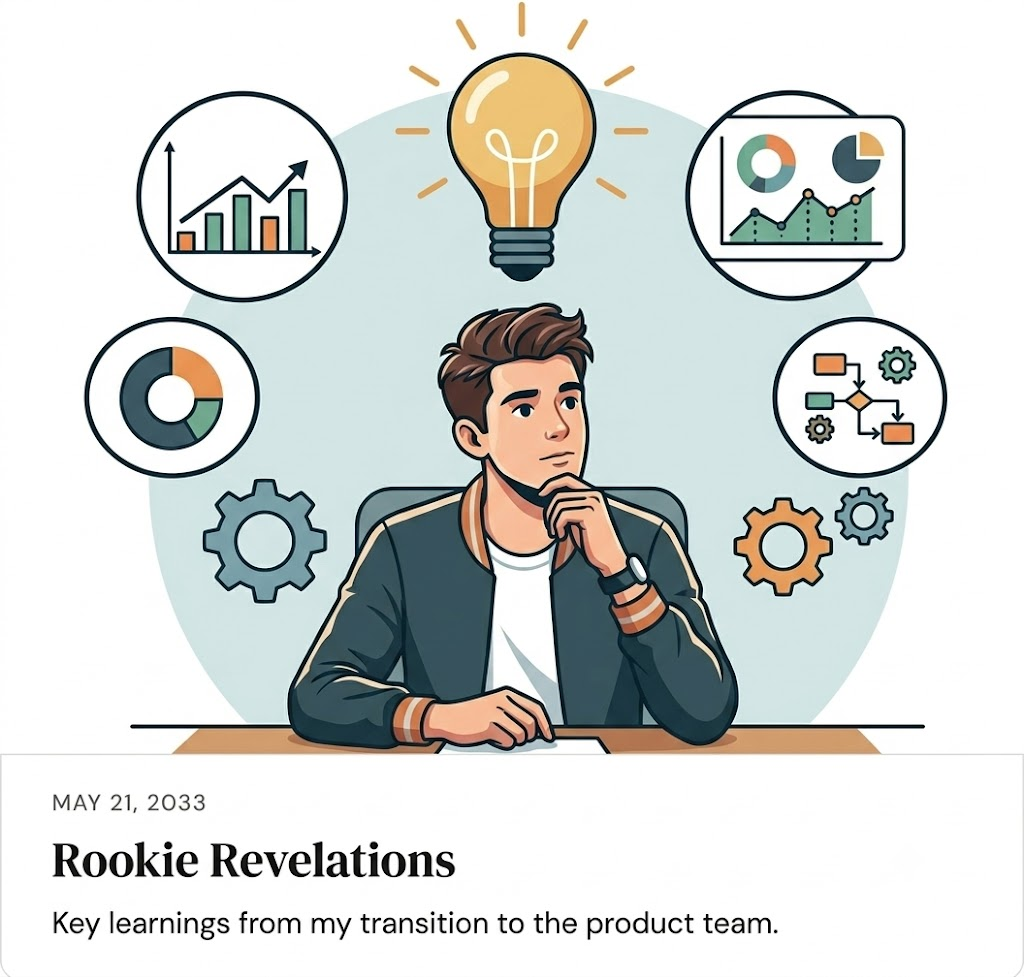
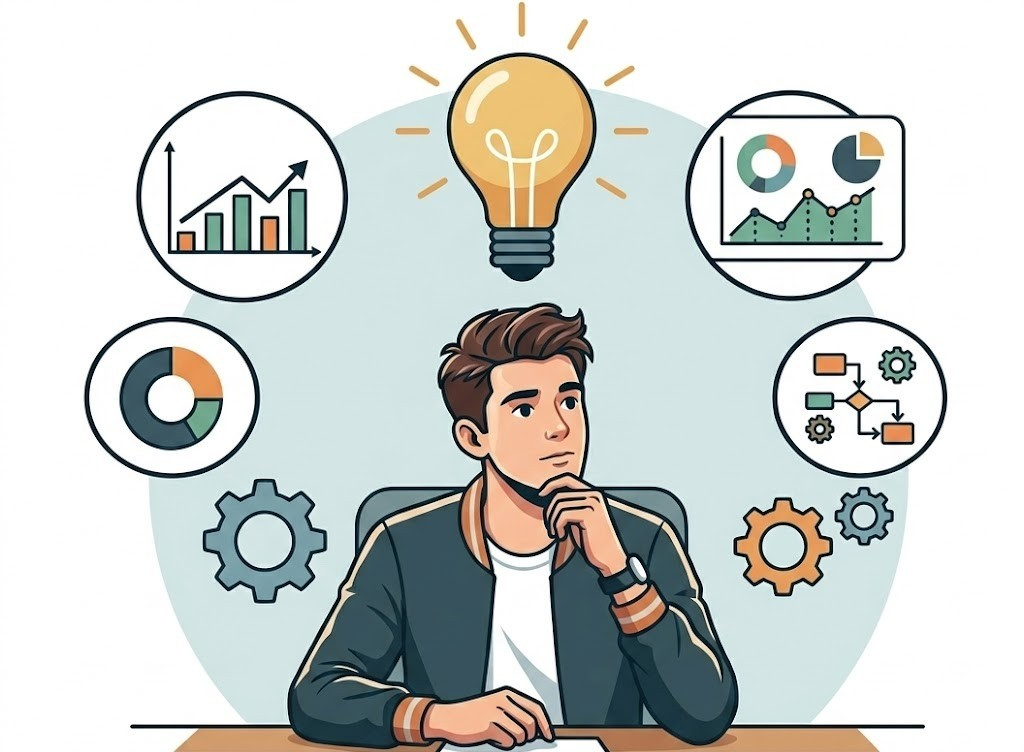
Remove article category labels; show full illustrated previews; crop baked-in text from Rookie image

diff --git a/styles.css b/styles.css
@@ -205,6 +205,8 @@ img { max-width: 100%; height: auto; display: block; }
 }
 .post-card:hover { transform: translateY(-4px); box-shadow: 0 18px 48px rgba(40,40,60,.12); }
 .post-card .thumb, .post-card img.thumb { width: 100%; aspect-ratio: 16 / 10; object-fit: cover; }
+/* Illustrated covers: show the whole image (no cropping) on a clean background */
+.post-card .thumb.contain { object-fit: contain; background: #ffffff; }
 .post-card .body { padding: 26px 28px 30px; }
 .post-card .date { font-size: 12.5px; color: var(--muted); text-transform: uppercase; letter-spacing: .08em; font-weight: 500; }
 .post-card h3 { font-size: 23px; font-weight: 600; margin: 10px 0 10px; letter-spacing: -.01em; }
@@ -244,4 +246,30 @@ img { max-width: 100%; height: auto; display: block; }
 }
 .article figure { margin: 32px 0; }
 .article figcaption { font-size: 14px; color: var(--muted); text-align: center; margin-top: 10px; }
-.article h3 { font-size: 22px; font-weight: 600; letter-spacing: -.01em; margin: 34px 0 12px; fon
+.article h3 { font-size: 22px; font-weight: 600; letter-spacing: -.01em; margin: 34px 0 12px; font-family: var(--serif); }
+.article ul, .article ol { font-size: 18px; line-height: 1.8; color: #3a3f4a; margin: 0 0 24px; padding-left: 26px; }
+.article li { margin: 0 0 10px; }
+.article ul ul { margin: 10px 0 0; }
+.article p a, .article li a { color: var(--accent); text-decoration: underline; text-underline-offset: 2px; }
+.article .btn { margin: 8px 0 14px; }
+.article .btn:hover { text-decoration: none; }
+.article em { color: inherit; }
+
+/* ---------- Image placeholders (replace with <img>) ---------- */
+.ph {
+  background: repeating-linear-gradient(135deg, #f2f3f7, #f2f3f7 10px, #eceef4 10px, #eceef4 20px);
+  display: flex; align-items: center; justify-content: center;
+  color: #9aa0b0; font-family: ui-monospace, "SFMono-Regular", Menlo, monospace;
+  font-size: 12px; letter-spacing: .04em;
+}
+
+/* ---------- Responsive ---------- */
+@media (max-width: 760px) {
+  .cards, .post-grid { grid-template-columns: 1fr; }
+  .about { grid-template-columns: 1fr; }
+  .about img { max-width: 280px; }
+  .nav-links { gap: 16px; }
+  .nav-links a:not(.pill) { display: none; }   /* keep header tidy on mobile */
+  .section { padding: 64px 0; }
+  .hero { min-height: 560px; }
+}

diff --git a/blogs/index.html b/blogs/index.html
@@ -53,7 +53,7 @@
     <div class="container post-grid">
 
       <a class="post-card" href="the-future-of-web3-wallets.html">
-        <img class="thumb" src="../images/future_of_web_3_image.jpg" alt="A futuristic digital wallet on an iPhone" />
+        <img class="thumb contain" src="../images/future_of_web_3_image.jpg" alt="A futuristic digital wallet on an iPhone" />
         <div class="body">
           <span class="date">November 14, 2024</span>
           <h3>The Future of Web3 Wallets</h3>
@@ -62,7 +62,7 @@
       </a>
 
       <a class="post-card" href="rookie-revelations.html">
-        <img class="thumb" src="../images/rookie_revelations.jpg" alt="Product owner vs. product manager" />
+        <img class="thumb contain" src="../images/rookie_revelations.jpg" alt="Person reflecting on product work" />
         <div class="body">
           <span class="date">May 21, 2023</span>
           <h3>Rookie Revelations</h3>
@@ -103,5 +103,3 @@
   </footer>
 
   <script>document.getElementById("year").textContent = new Date().getFullYear();</script>
-</body>
-</html>

diff --git a/blogs/door-dash-for-more-cash.html b/blogs/door-dash-for-more-cash.html
@@ -44,7 +44,6 @@
   <article class="article">
     <a class="back-link" href="index.html">← All posts</a>
 
-    <span class="kicker">Data &amp; Side Hustles</span>
     <h1>Door Dash for More Cash</h1>
     <div class="meta">
       <span>February 11, 2023</span>
@@ -107,3 +106,4 @@
   <script>document.getElementById("year").textContent = new Date().getFullYear();</script>
 </body>
 </html>
+

diff --git a/blogs/rookie-revelations.html b/blogs/rookie-revelations.html
@@ -44,7 +44,6 @@
   <article class="article">
     <a class="back-link" href="index.html">← All posts</a>
 
-    <span class="kicker">Product Management</span>
     <h1>Rookie Revelations</h1>
     <div class="meta">
       <span>May 21, 2023</span>
@@ -116,3 +115,4 @@
   <script>document.getElementById("year").textContent = new Date().getFullYear();</script>
 </body>
 </html>
+

diff --git a/blogs/the-future-of-web3-wallets.html b/blogs/the-future-of-web3-wallets.html
@@ -44,7 +44,6 @@
   <article class="article">
     <a class="back-link" href="index.html">← All posts</a>
 
-    <span class="kicker">Technology &amp; Design</span>
     <h1>The Future of Web3 Wallets</h1>
     <div class="meta">
       <span>November 14, 2024</span>
@@ -143,3 +142,4 @@
   <script>document.getElementById("year").textContent = new Date().getFullYear();</script>
 </body>
 </html>
+